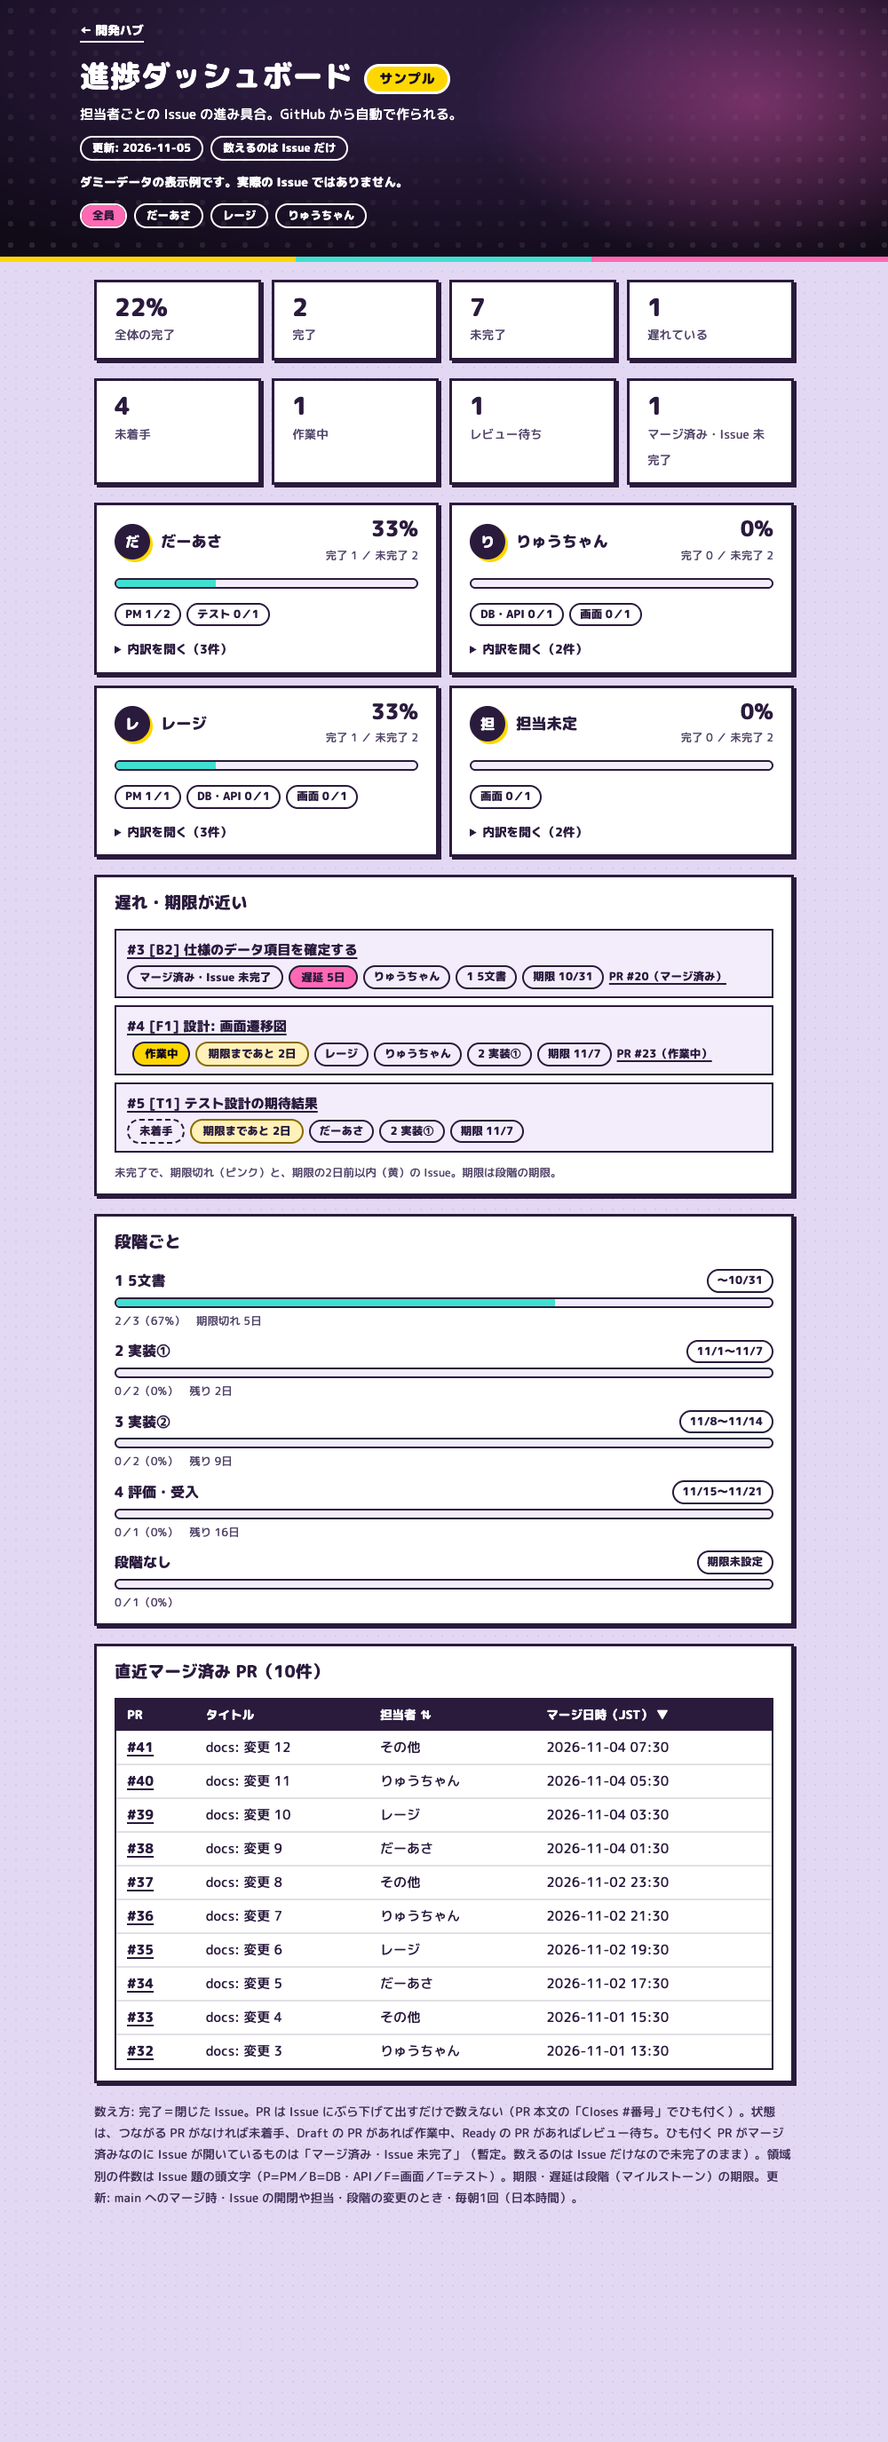
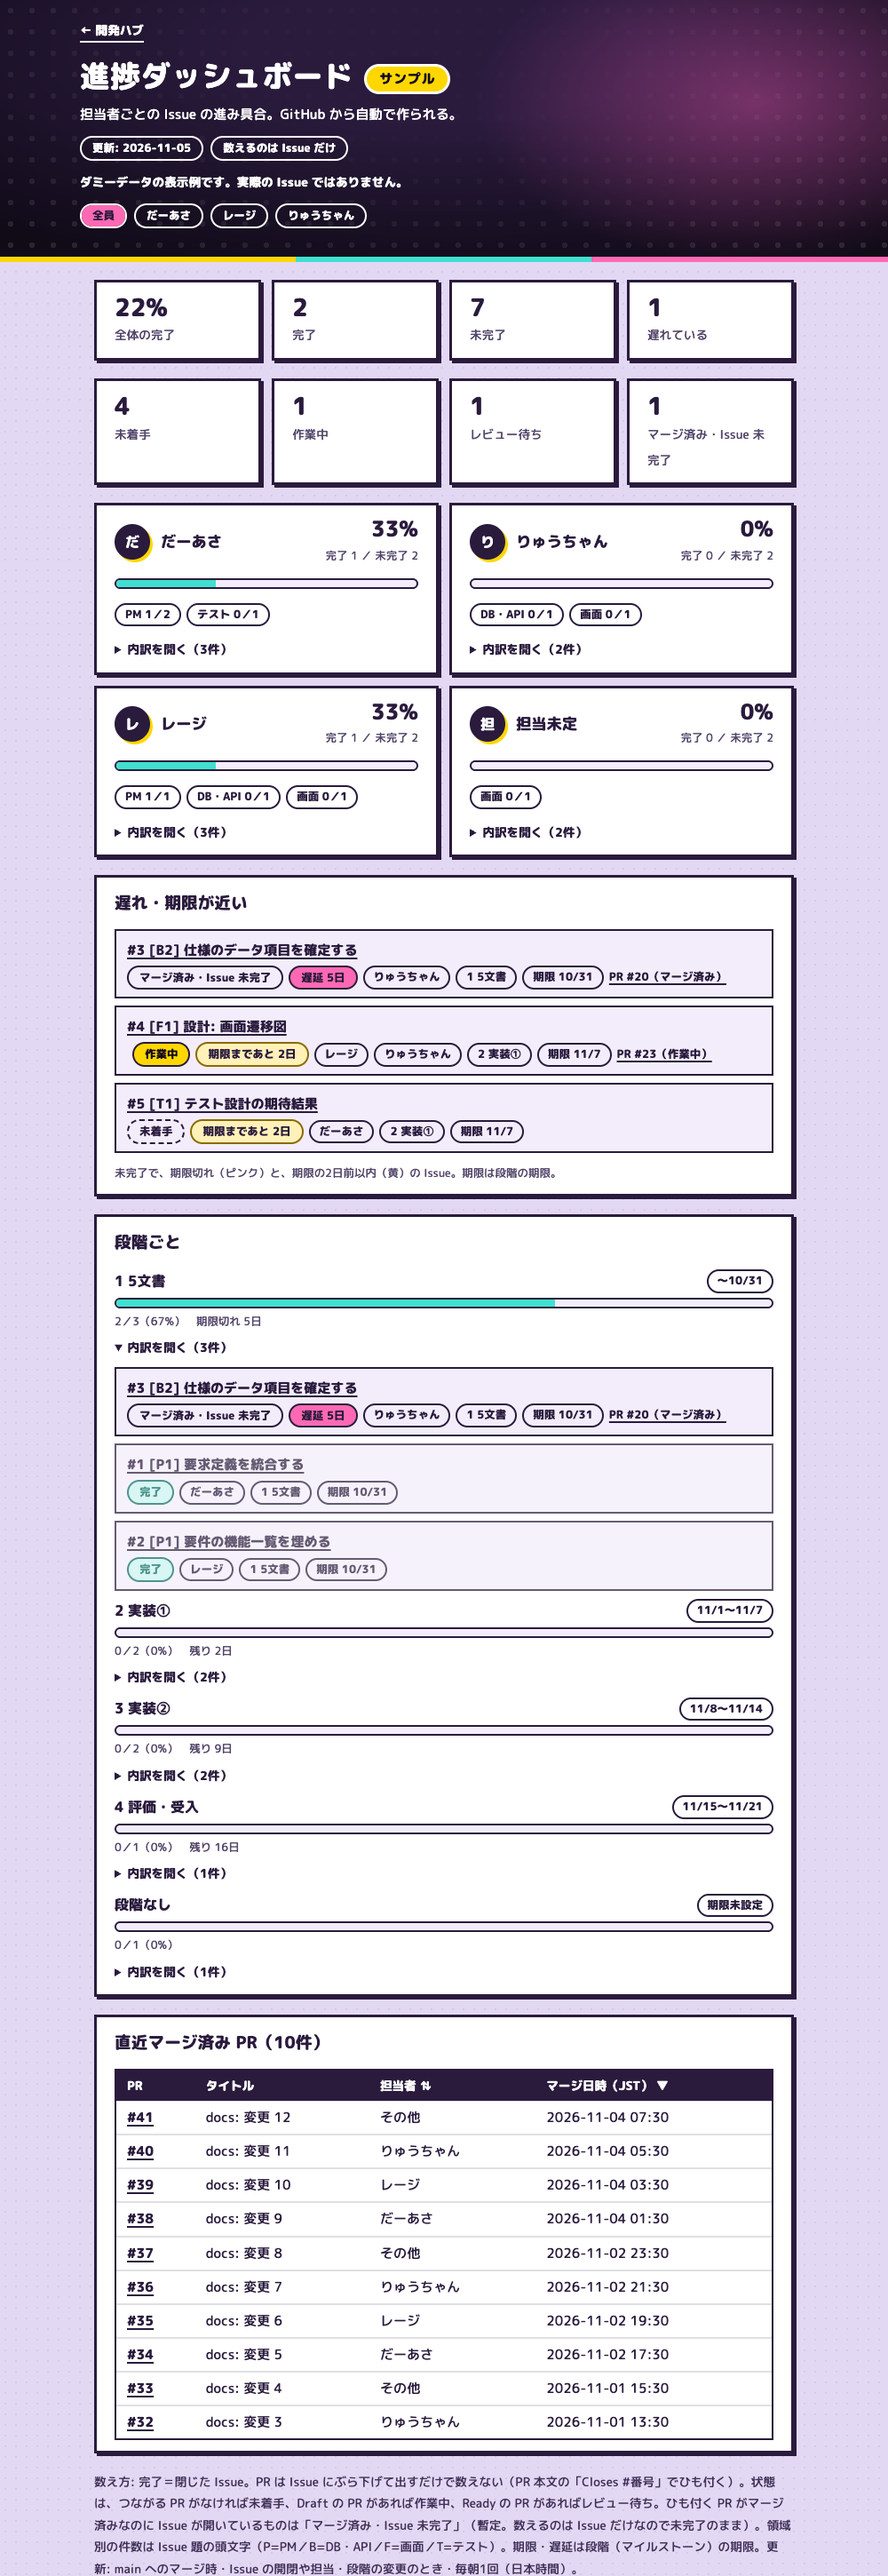
feat: 段階ごとにも内訳を開く・直近 PR の並べ替えを狭い幅でも使えるようにする

Changed region(s): [[0.0, 0.0, 1.0, 1.0]]

diff --git a/scripts/build-progress.py b/scripts/build-progress.py
@@ -115,11 +115,12 @@ def build_model(issues, milestones, names, today):
     order = sorted(people.values(), key=lambda p: (p["login"] is None, p["name"]))
     stages = {}
     for r in rows:
-        s = stages.setdefault(r["stage"], {"title": r["stage"], "due": r["due"], "done": 0, "total": 0})
+        s = stages.setdefault(r["stage"], {"title": r["stage"], "due": r["due"], "done": 0, "total": 0, "rows": []})
+        s["rows"].append(r)
         s["total"] += 1
         s["done"] += r["done"]
     for m in milestones:  # Issue が0件の段階も出す
-        stages.setdefault(m["title"], {"title": m["title"], "due": due[m["number"]], "done": 0, "total": 0})
+        stages.setdefault(m["title"], {"title": m["title"], "due": due[m["number"]], "done": 0, "total": 0, "rows": []})
     stage_list = sorted(stages.values(), key=lambda s: (s["due"] is None, s["due"] or today, s["title"]))
     prev = None
     for s in stage_list:  # 期間: 前の段階の翌日〜期限
@@ -219,7 +220,11 @@ def render_prs(prs):
         f'<td data-label="PR"><a href="{e(safe_url(x["url"]))}">#{x["number"]}</a></td>'
         f'<td data-label="タイトル">{e(x["title"])}</td><td data-label="担当者">{e(x["author"])}</td>'
         f'<td data-label="マージ日時">{x["at"].strftime("%Y-%m-%d %H:%M")}</td></tr>' for x in prs)
-    return ('<section class="pcard" id="prs"><h3 style="margin:0">直近マージ済み PR（%d件）</h3><div class="tbl"><table><thead><tr>'
+    return ('<section class="pcard" id="prs"><h3 style="margin:0">直近マージ済み PR（%d件）</h3>'
+            '<div class="sortbar" role="group" aria-label="並べ替え">並べ替え:'
+            '<button type="button" data-k="t" aria-pressed="true">マージ日時</button>'
+            '<button type="button" data-k="a" aria-pressed="false">担当者</button></div>'
+            '<div class="tbl"><table><thead><tr>'
             '<th>PR</th><th>タイトル</th>'
             '<th aria-sort="none"><button type="button" data-k="a">担当者 <span aria-hidden="true">⇅</span></button></th>'
             '<th aria-sort="descending"><button type="button" data-k="t">マージ日時（JST） <span aria-hidden="true">▼</span></button></th>'
@@ -230,7 +235,7 @@ def md(d):
     return f"{d.month}/{d.day}"
 
 
-def render_stage(s):
+def render_stage(s, name_of):
     pc = pct(s["done"], s["total"])
     if s["due"]:
         period = f"{md(s['start'])}〜{md(s['due'])}" if s["start"] else f"〜{md(s['due'])}"
@@ -246,7 +251,11 @@ def render_stage(s):
         period, left = "期限未設定", ""
     return (f'<li><span class="sn">{e(s["title"])}</span><span class="chip">{period}</span>'
             f'<div class="bar"><i style="width:{pc}%"></i></div>'
-            f'<span class="sv">{s["done"]}／{s["total"]}（{pc}%）{"　" + left if left else ""}</span></li>')
+            f'<span class="sv">{s["done"]}／{s["total"]}（{pc}%）{"　" + left if left else ""}</span>'
+            + (f'<details><summary>内訳を開く（{s["total"]}件）</summary><ul class="rows">'
+               + "".join(render_row(x, [name_of.get(a, NO_ASSIGNEE) if a else NO_ASSIGNEE for a in x["assignees"]])
+                         for x in sorted(s["rows"], key=lambda x: (x["done"], -x["late"], x["number"])))
+               + "</ul></details>" if s["rows"] else "") + "</li>")
 
 
 CSS = """
@@ -260,6 +269,8 @@ CSS = """
 .ph{display:flex;align-items:center;gap:var(--s3)}.ph h3{margin:0;font:800 var(--fs-l)/var(--lh-t) var(--body)}.pgrid{display:grid;grid-template-columns:repeat(auto-fit,minmax(min(100%,300px),1fr));gap:var(--s3);align-items:start}
 .pcard details>summary{cursor:pointer;font:800 var(--fs-s)/2 var(--body)}.pcard details[open]>summary{margin-bottom:var(--s2)}
 .st.merged{background:var(--tint);color:var(--ctext);border:var(--bw1) solid var(--kac)}
+#prs .sortbar{display:none;align-items:center;gap:var(--s2);font:800 var(--fs-xs)/1.8 var(--body)}#prs .sortbar button{font:inherit;color:inherit;background:transparent;border:var(--bw1) solid var(--kac);border-radius:var(--rp);padding:0 12px;cursor:pointer}#prs .sortbar button[aria-pressed="true"]{background:var(--hero);color:var(--onhero)}
+@media(max-width:700px){#prs .sortbar{display:flex}}
 #prs th button{font:inherit;color:inherit;background:transparent;border:0;padding:0;cursor:pointer}#prs td{padding:6px 12px}#prs .tbl{box-shadow:none}
 .av{display:grid;place-items:center;width:40px;height:40px;border-radius:50%;background:var(--hbg);color:var(--htext);box-shadow:3px 3px 0 var(--hsh);font:800 1rem/1 var(--body);flex:none}
 .num{margin-left:auto;text-align:right}.num b{display:block;font:800 1.5rem/1.2 var(--body)}.num span{font-size:var(--fs-xs);color:var(--csub)}
@@ -274,7 +285,7 @@ CSS = """
 #who li{padding:0}#who button{font:inherit;color:inherit;background:transparent;border:0;border-radius:var(--rp);padding:0 12px;cursor:pointer}#who button[aria-pressed="true"]{background:var(--hero);color:var(--onhero)}
 .st.set{background:var(--m1);color:#12091F;border:var(--bw1) solid var(--line)}
 .pr{font-size:var(--fs-xs);font-weight:800}
-.stg2 li{display:grid;grid-template-columns:minmax(0,1fr) auto;gap:4px var(--s3);align-items:center}.stg2 .bar{grid-column:1/-1}.sn{font-weight:800}.sv{font-size:var(--fs-xs);color:var(--csub)}
+.stg2>ul>li{display:grid;grid-template-columns:minmax(0,1fr) auto;gap:4px var(--s3);align-items:center}.stg2 .bar,.stg2 details{grid-column:1/-1}.stg2 details>summary{cursor:pointer;font:800 var(--fs-s)/2 var(--body)}.stg2 details[open]>summary{margin-bottom:var(--s2)}.sn{font-weight:800}.sv{font-size:var(--fs-xs);color:var(--csub)}
 .sample{display:inline-block;margin-left:var(--s3);padding:0 14px;border:var(--bw2) solid var(--btxt);border-radius:var(--rp);background:var(--m1);color:#12091F;font:800 var(--fs-m)/1.8 var(--body);vertical-align:middle;-webkit-text-stroke:0}.sample-note{margin:var(--s3) 0 0;font-weight:800;font-size:var(--fs-s)}
 .note{font-size:var(--fs-s);color:var(--sub)}
 @media(max-width:480px){.ph{flex-wrap:wrap}.num{margin-left:0;text-align:left;width:100%}}
@@ -303,11 +314,11 @@ window.addEventListener("hashchange",function(){show(st())});show(st())})();"""
 
 
 # 直近 PR の表: 列見出しで並べ替え。担当者は押すたびに 昇順 → 逆順。既定はマージ日時の新しい順
-SORT_JS = """(function(){var t=document.querySelector("#prs tbody");if(!t)return;var hs=[].slice.call(document.querySelectorAll("#prs th[aria-sort]")),cur="t",dir=-1;
+SORT_JS = """(function(){var t=document.querySelector("#prs tbody");if(!t)return;var bs=[].slice.call(document.querySelectorAll("#prs button[data-k]")),cur="t",dir=-1;
 function key(r,k){return k==="a"?r.getAttribute("data-a"):r.getAttribute("data-t")}
-function go(k){dir=(k===cur)?-dir:(k==="t"?-1:1);cur=k;var rs=[].slice.call(t.rows);rs.sort(function(x,y){var a=key(x,k),b=key(y,k),c=a<b?-1:a>b?1:0;if(k==="a"&&c===0){c=x.getAttribute("data-t")<y.getAttribute("data-t")?1:-1;return c}return c*dir});rs.forEach(function(r){t.appendChild(r)});
-hs.forEach(function(h){var b=h.querySelector("button"),on=b.getAttribute("data-k")===k;h.setAttribute("aria-sort",on?(dir>0?"ascending":"descending"):"none");b.querySelector("span").textContent=on?(dir>0?"▲":"▼"):"⇅"})}
-hs.forEach(function(h){var b=h.querySelector("button");b.addEventListener("click",function(){go(b.getAttribute("data-k"))})})})();"""
+function go(k){dir=(k===cur)?-dir:(k==="t"?-1:1);cur=k;var rs=[].slice.call(t.rows);rs.sort(function(x,y){var a=key(x,k),b=key(y,k),c=a<b?-1:a>b?1:0;if(k==="a"&&c===0){return x.getAttribute("data-t")<y.getAttribute("data-t")?1:-1}return c*dir});rs.forEach(function(r){t.appendChild(r)});
+bs.forEach(function(b){var on=b.getAttribute("data-k")===k,h=b.parentNode,sp=b.querySelector("span");if(h.tagName==="TH"){h.setAttribute("aria-sort",on?(dir>0?"ascending":"descending"):"none");sp.textContent=on?(dir>0?"▲":"▼"):"⇅"}else{b.setAttribute("aria-pressed",on?"true":"false")}})}
+bs.forEach(function(b){b.addEventListener("click",function(){go(b.getAttribute("data-k"))})})})();"""
 
 
 def page(body, updated, sample=False, members=()):
@@ -374,7 +385,7 @@ def render(model, updated, sample=False):
                  '<p class="sv" style="margin:0;font-size:var(--fs-xs)">未完了で、期限切れ（ピンク）と、期限の2日前以内（黄）の Issue。期限は段階の期限。</p></section>')
     if model["stages"]:
         parts.append('<section class="stg2"><h3 style="margin:0">段階ごと</h3><ul>'
-                     + "".join(render_stage(s) for s in model["stages"]) + "</ul></section>")
+                     + "".join(render_stage(s, model["name_of"]) for s in model["stages"]) + "</ul></section>")
     if not model["total"]:
         parts.append('<div class="empty"><h3>まだ Issue がありません</h3><p>段階（マイルストーン）だけ作られています。</p></div>')
     parts.append(render_prs(model.get("merged_prs", [])))

diff --git a/scripts/test_build_progress.py b/scripts/test_build_progress.py
@@ -139,6 +139,32 @@ class T(unittest.TestCase):
         for acct in ("Hiroki0023", "re-ji-tech0", "matsuki24335", "guest-dev"):
             self.assertNotIn(acct, visible)
 
+    def test_stage_breakdown_rows_and_empty_stage(self):
+        m = model()
+        st = {x["title"]: x for x in m["stages"]}
+        self.assertEqual([r["number"] for r in st["1 5文書"]["rows"]], [1, 2, 3])
+        out = bp.render(m, "x")
+        sec = out[out.index('class="stg2"'):out.index('id="al"') if out.index('id="al"') > out.index('class="stg2"') else None]
+        self.assertIn("内訳を開く（3件）", sec)
+        self.assertNotIn("<details open", sec)
+        self.assertIn("#3 [B2] 仕様のデータ項目を確定する", sec)  # 行は担当カードの内訳と同じ形
+        self.assertIn("りゅうちゃん", sec)  # 担当の表示名
+        # 0件の段は開くボタンを出さない
+        d = json.load(open(os.path.join(D, "testdata", "progress-sample.json"), encoding="utf-8"))
+        d["milestones"].append({"number": 9, "title": "5 空の段階", "due_on": "2026-11-28T14:59:59Z"})
+        out2 = bp.render(bp.build_model(d["issues"], d["milestones"], NAMES, dt.date(2026, 11, 5)), "x")
+        i = out2.index("5 空の段階")
+        li = out2[i:out2.index("</li>", i)]
+        self.assertNotIn("<details>", li)
+        self.assertIn("0／0", li)
+
+    def test_sort_buttons_for_narrow_width(self):
+        out = bp.render(model(), "x")
+        self.assertIn('class="sortbar"', out)
+        self.assertIn('data-k="t" aria-pressed="true">マージ日時', out)
+        self.assertIn('data-k="a" aria-pressed="false">担当者', out)
+        self.assertIn("@media(max-width:700px){#prs .sortbar{display:flex}}", out)
+
     def test_empty_and_escape(self):
         self.assertIn("まだ Issue がありません", bp.render(model(data="progress-empty.json"), "x"))
         out = bp.render(bp.build_model(
